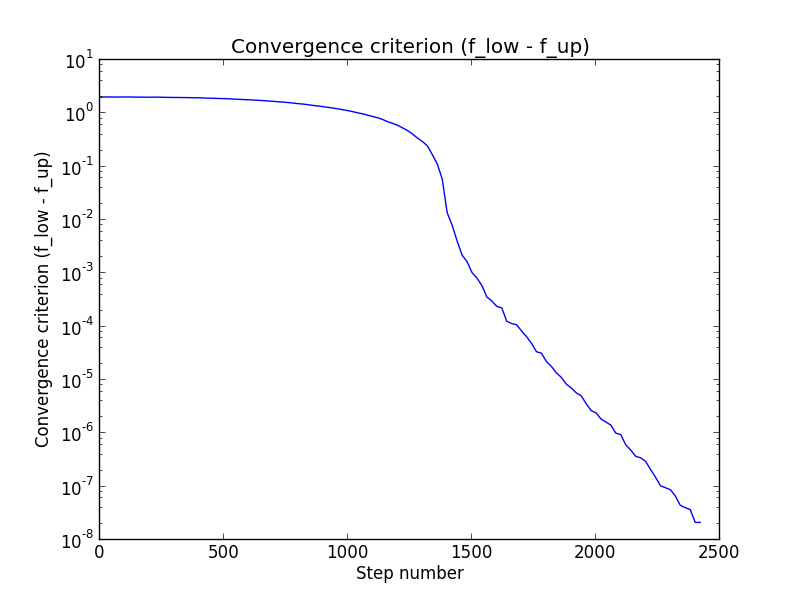
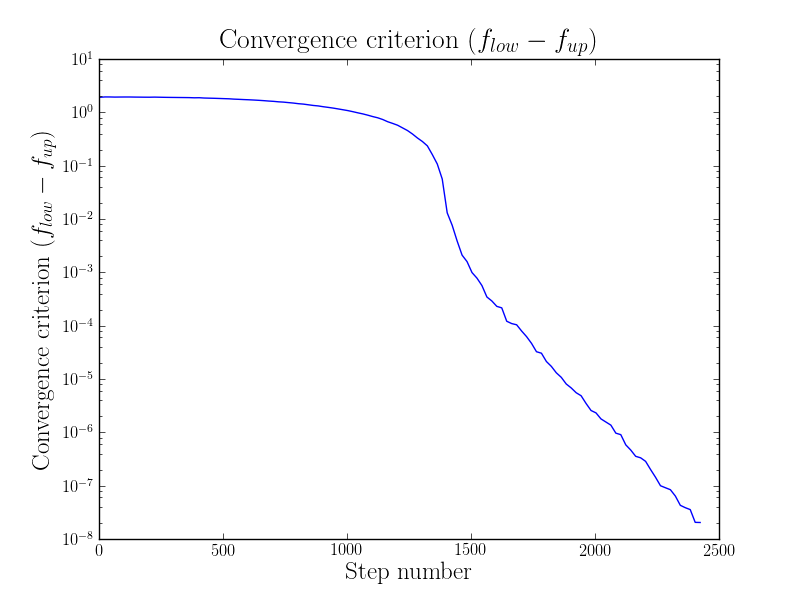
Use TeX for labels and titles

diff --git a/svm/plots/svm_plots.py b/svm/plots/svm_plots.py
@@ -1,9 +1,12 @@
 #!/usr/bin/env python2
 
-import matplotlib.pyplot as plt
 import re
 import sys
+from matplotlib import rc
+import matplotlib.pyplot as plt
 
+rc('font', **{'family': 'serif', 'serif': ['Computer Modern']})
+rc('text', usetex=True)
 
 log_file = open('../train_6000_log.txt', 'r')
 file_str = log_file.read()
@@ -23,9 +26,9 @@ def plot_svm_criterion():
     assert len(steps) == len(all_F)
     
     plt.plot(steps, all_F, color='r')
-    plt.xlabel('Step number')
-    plt.ylabel('SVM criterion (Phi)')
-    plt.title('SVM criterion (Phi)')
+    plt.xlabel('Step number', fontsize=18)
+    plt.ylabel(r'$\Phi(\alpha)$', fontsize=18)
+    plt.title(r'SVM criterion $(\Phi(\alpha))$', fontsize=20)
     plt.show()
 
 def plot_convergence_criterion():
@@ -38,12 +41,12 @@ def plot_convergence_criterion():
 
     plt.semilogy(steps, f_diff, color='b')
     #plt.plot(steps, f_diff, color='b')
-    plt.xlabel('Step number')
-    plt.ylabel('Convergence criterion (f_low - f_up)')
-    plt.title('Convergence criterion (f_low - f_up)')
+    plt.xlabel('Step number', fontsize=18)
+    plt.ylabel(r'Convergence criterion ($f_{low} - f_{up}$)', fontsize=18)
+    plt.title(r'Convergence criterion ($f_{low} - f_{up}$)', fontsize=20)
     plt.show()
     
 
 
-plot_svm_criterion()
-#plot_convergence_criterion()
+#plot_svm_criterion()
+plot_convergence_criterion()
